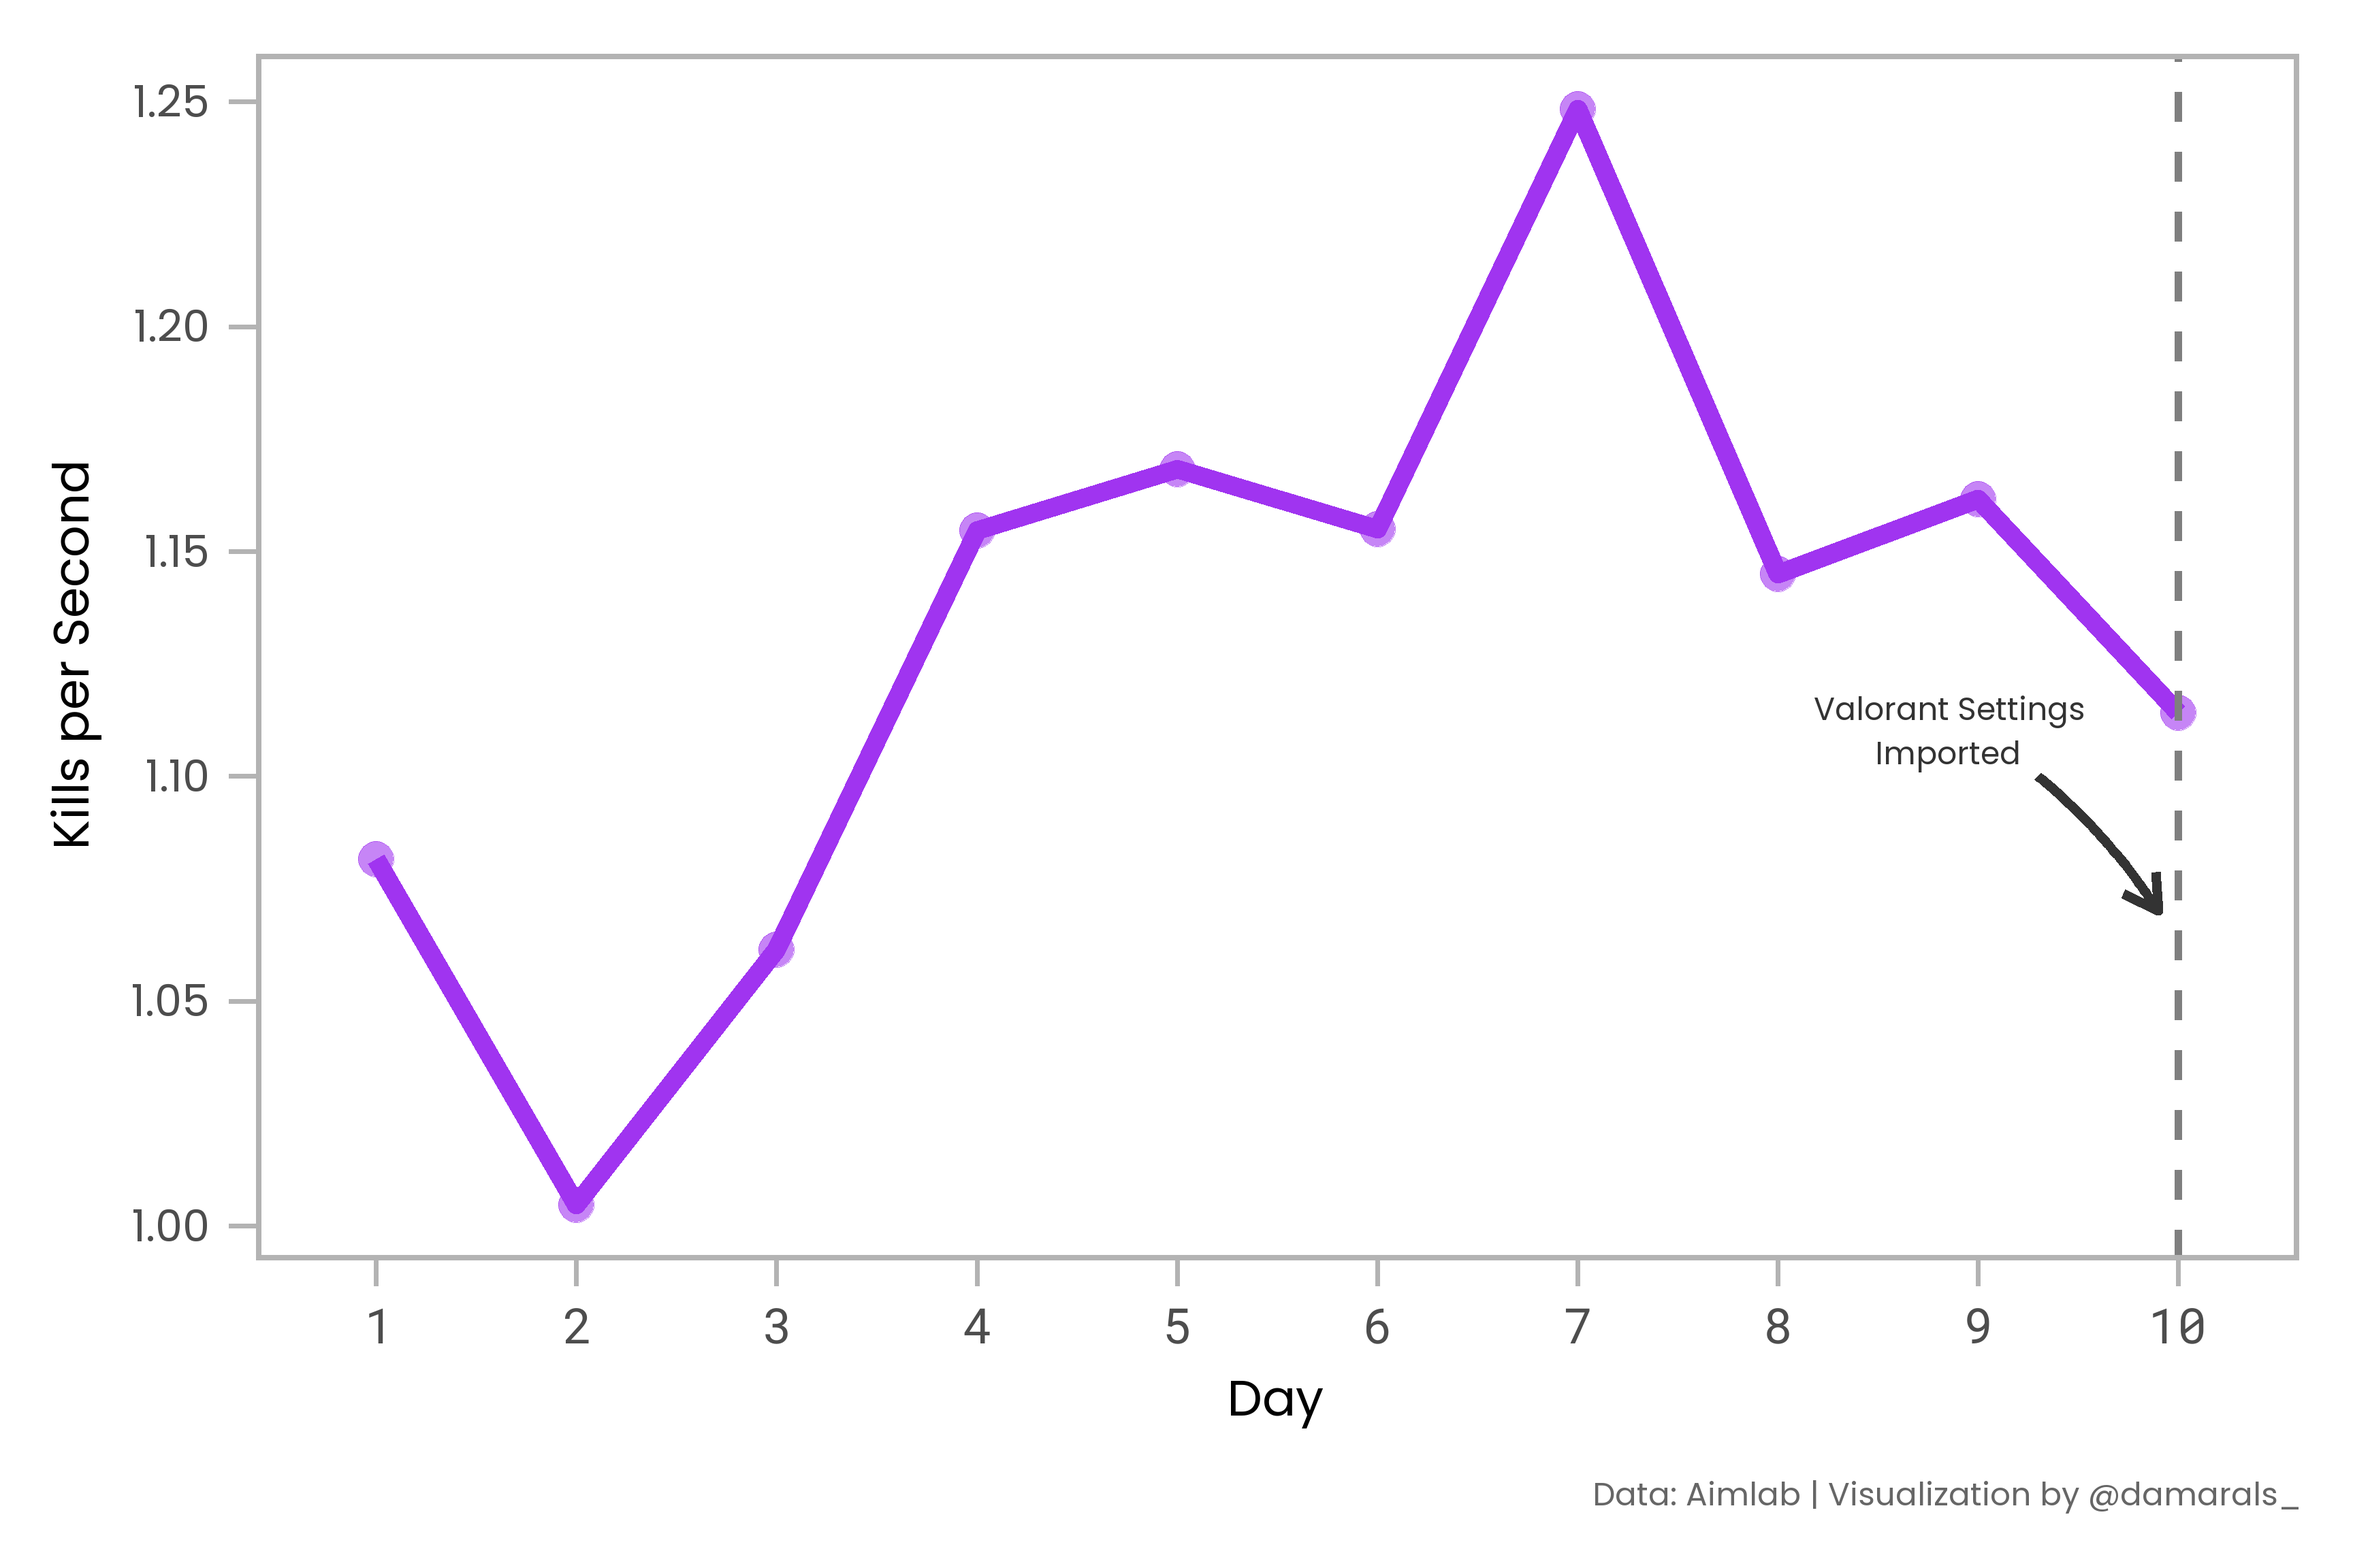
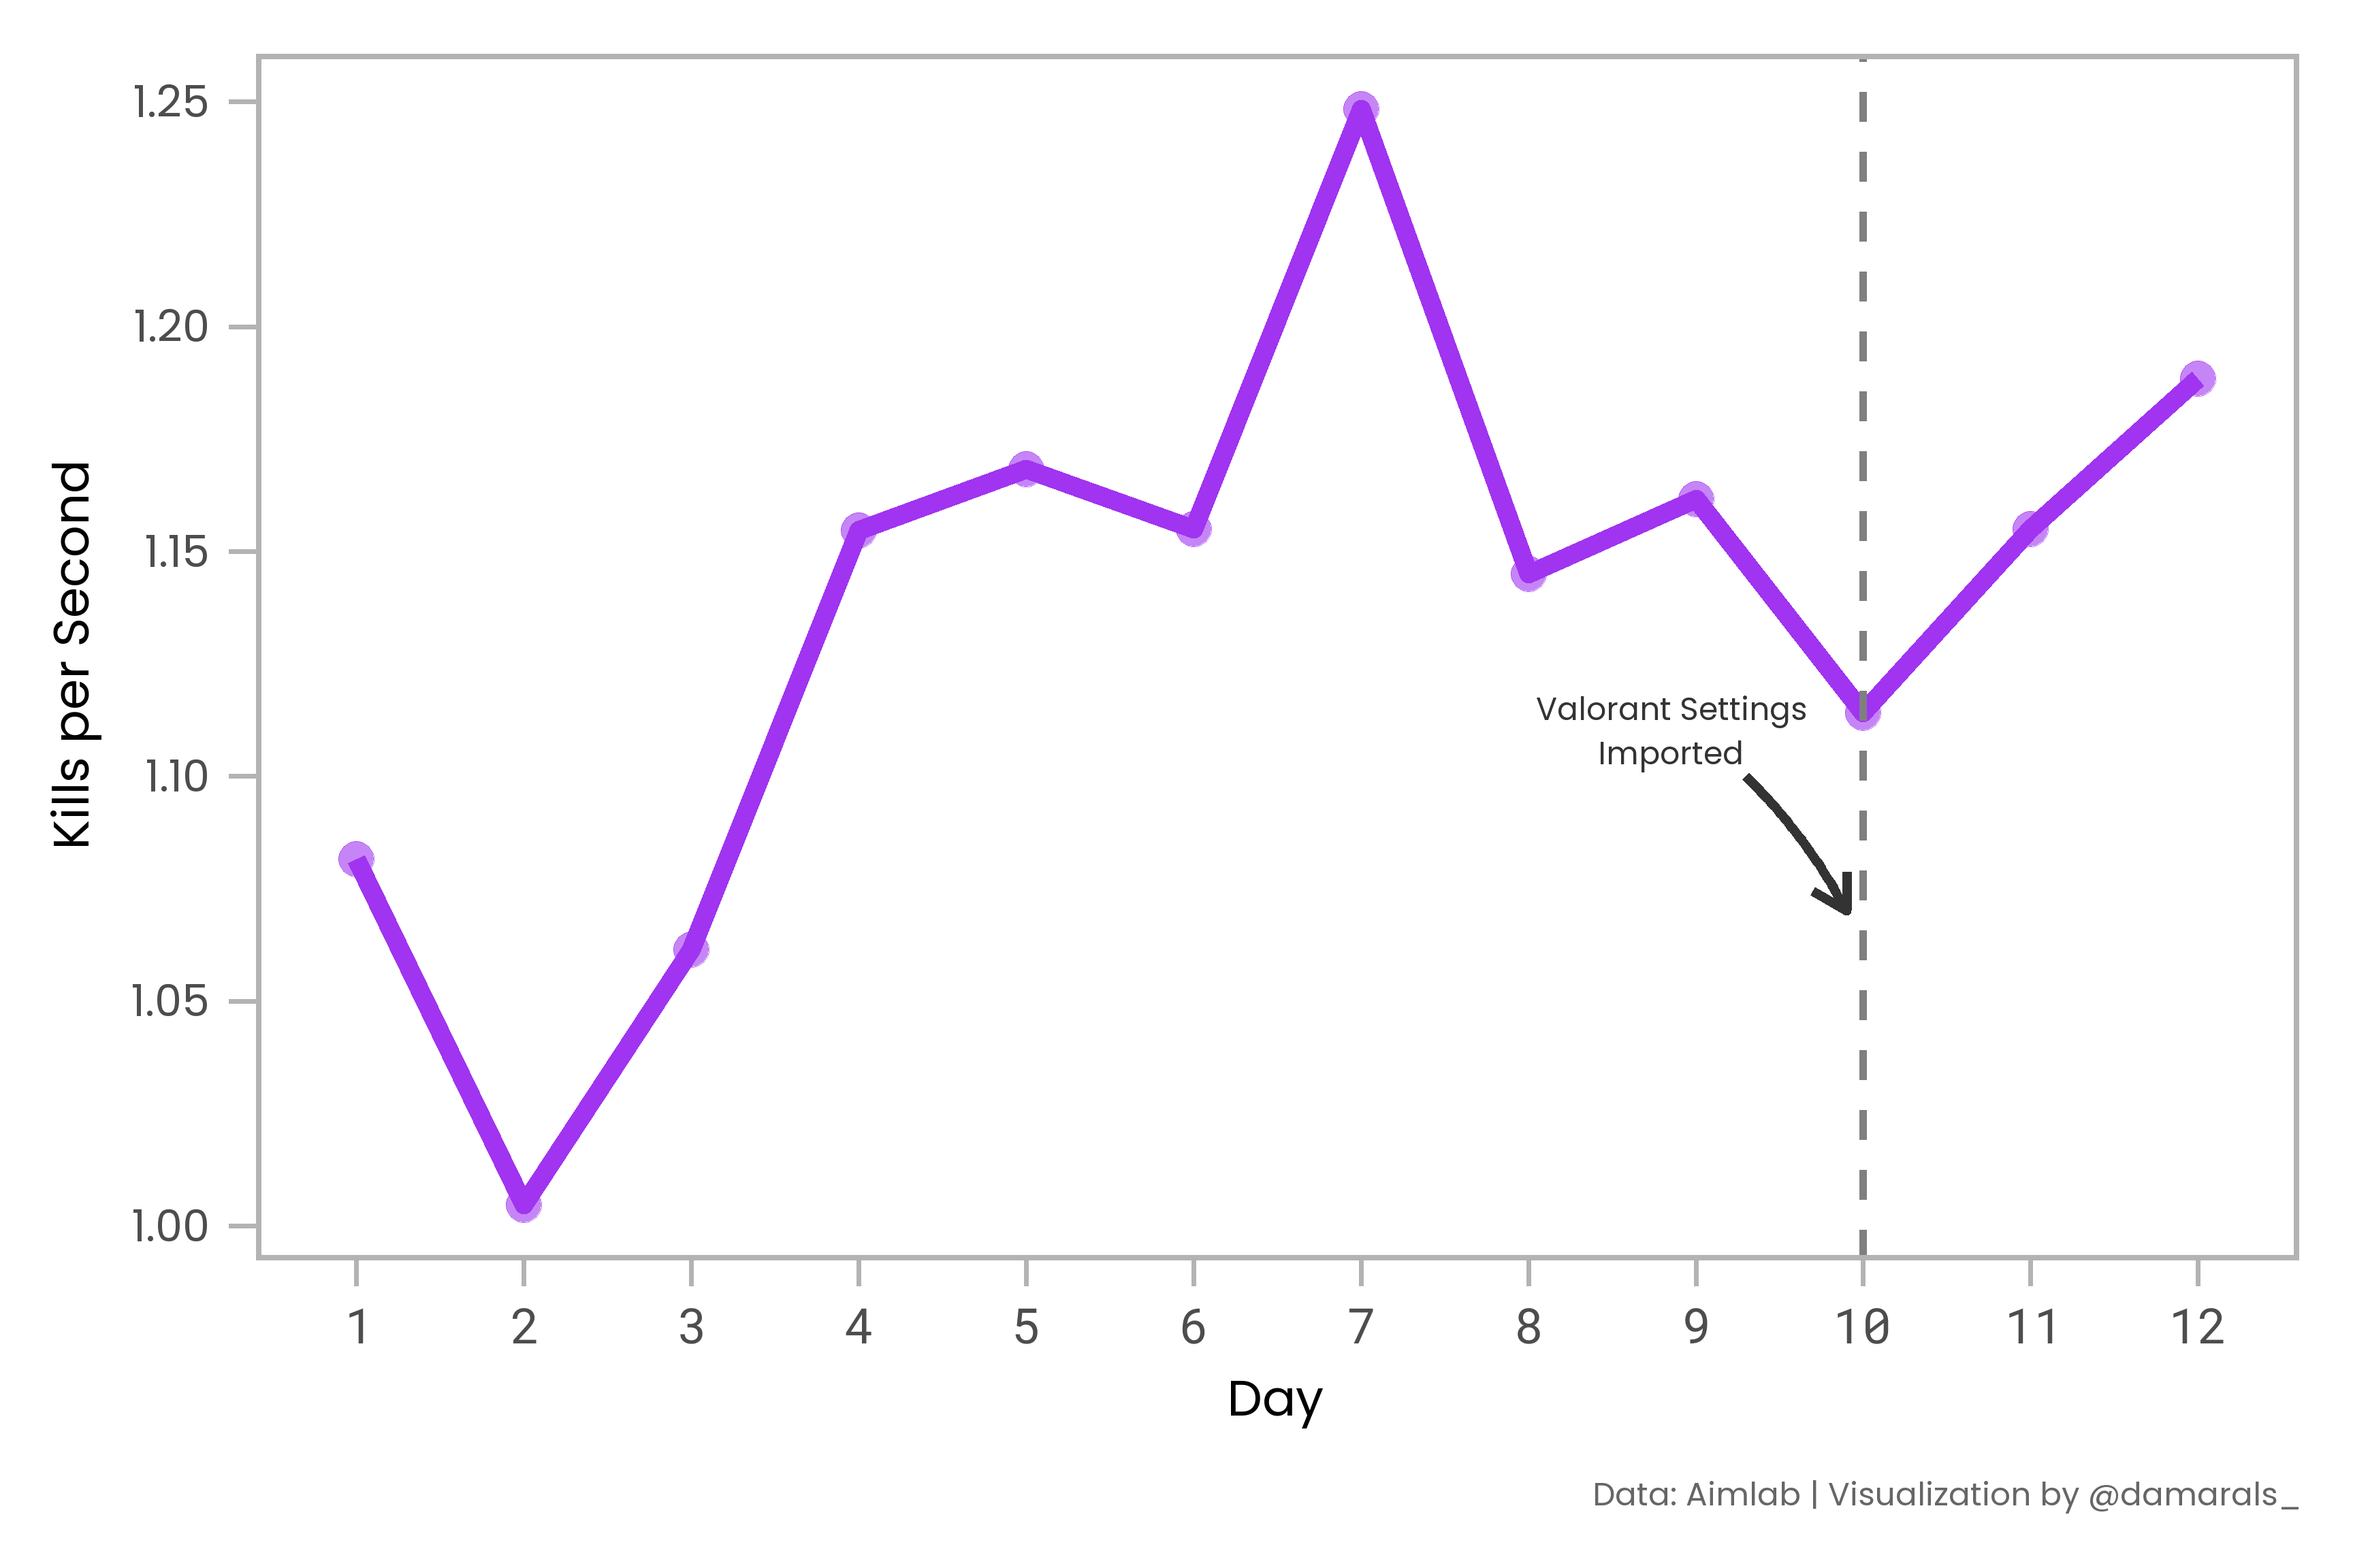
:sparkles: update data and remove valorant plots

diff --git a/docs/posts/2022-05-13_aimlab-is-worth/index.html b/docs/posts/2022-05-13_aimlab-is-worth/index.html
@@ -697,63 +697,6 @@ code span.wa { color: #60a0b0; font-weight: bold; font-style: italic; } /* Warni
 </div>
 </div>
 </div>
-</section>
-<section id="inside-the-valorant" class="level4">
-<h4 class="anchored" data-anchor-id="inside-the-valorant">Inside the Valorant</h4>
-<div class="cell" data-layout-align="center" data-fig.dpi="300">
-<details>
-<summary>Code</summary>
-<div class="sourceCode cell-code" id="cb13"><pre class="sourceCode r code-with-copy"><code class="sourceCode r"><span id="cb13-1"><a href="#cb13-1" aria-hidden="true" tabindex="-1"></a>val_task <span class="ot">&lt;-</span> readr<span class="sc">::</span><span class="fu">read_csv</span>(<span class="st">"data/val-task.csv"</span>, <span class="at">col_types =</span> <span class="st">"fdd"</span>) <span class="sc">%&gt;%</span></span>
-<span id="cb13-2"><a href="#cb13-2" aria-hidden="true" tabindex="-1"></a>  dplyr<span class="sc">::</span><span class="fu">filter</span>(</span>
-<span id="cb13-3"><a href="#cb13-3" aria-hidden="true" tabindex="-1"></a>    dplyr<span class="sc">::</span><span class="fu">between</span>(dplyr<span class="sc">::</span><span class="fu">row_number</span>(), <span class="dv">1</span>, </span>
-<span id="cb13-4"><a href="#cb13-4" aria-hidden="true" tabindex="-1"></a>                   <span class="fu">max</span>(<span class="fu">which</span>(<span class="sc">!</span><span class="fu">is.na</span>(time_to_complete)))))</span>
-<span id="cb13-5"><a href="#cb13-5" aria-hidden="true" tabindex="-1"></a></span>
-<span id="cb13-6"><a href="#cb13-6" aria-hidden="true" tabindex="-1"></a>val_task <span class="sc">%&gt;%</span></span>
-<span id="cb13-7"><a href="#cb13-7" aria-hidden="true" tabindex="-1"></a>  ggplot2<span class="sc">::</span><span class="fu">ggplot</span>() <span class="sc">+</span></span>
-<span id="cb13-8"><a href="#cb13-8" aria-hidden="true" tabindex="-1"></a>  ggplot2<span class="sc">::</span><span class="fu">aes</span>(<span class="at">x =</span> day, <span class="at">y =</span> time_to_complete, <span class="at">group =</span> <span class="dv">1</span>) <span class="sc">+</span></span>
-<span id="cb13-9"><a href="#cb13-9" aria-hidden="true" tabindex="-1"></a>  ggplot2<span class="sc">::</span><span class="fu">stat_summary</span>(<span class="at">fun =</span> mean, <span class="at">geom =</span> <span class="st">"point"</span>,</span>
-<span id="cb13-10"><a href="#cb13-10" aria-hidden="true" tabindex="-1"></a>                        <span class="at">color =</span> <span class="st">"#A034F0"</span>, <span class="at">size =</span> <span class="dv">9</span>, <span class="at">alpha =</span> <span class="fl">0.6</span>) <span class="sc">+</span></span>
-<span id="cb13-11"><a href="#cb13-11" aria-hidden="true" tabindex="-1"></a>  ggplot2<span class="sc">::</span><span class="fu">stat_summary</span>(<span class="at">fun =</span> mean, <span class="at">geom =</span> <span class="st">"line"</span>,</span>
-<span id="cb13-12"><a href="#cb13-12" aria-hidden="true" tabindex="-1"></a>                        <span class="at">color =</span> <span class="st">"#A034F0"</span>, <span class="at">size =</span> <span class="dv">5</span>) <span class="sc">+</span></span>
-<span id="cb13-13"><a href="#cb13-13" aria-hidden="true" tabindex="-1"></a>  ggplot2<span class="sc">::</span><span class="fu">scale_y_continuous</span>(<span class="at">breaks =</span> scales<span class="sc">::</span><span class="fu">pretty_breaks</span>(<span class="dv">8</span>)) <span class="sc">+</span></span>
-<span id="cb13-14"><a href="#cb13-14" aria-hidden="true" tabindex="-1"></a>  ggplot2<span class="sc">::</span><span class="fu">labs</span>(<span class="at">x =</span> <span class="st">"Day"</span>, <span class="at">y =</span> <span class="st">"Time to Complete (s)"</span>,</span>
-<span id="cb13-15"><a href="#cb13-15" aria-hidden="true" tabindex="-1"></a>                <span class="at">caption =</span> <span class="st">"Data: Aimlab | Visualization by @damarals_"</span>) <span class="sc">+</span></span>
-<span id="cb13-16"><a href="#cb13-16" aria-hidden="true" tabindex="-1"></a>  danlib<span class="sc">::</span><span class="fu">dan_theme</span>(<span class="at">base_size =</span> <span class="dv">60</span>, <span class="at">axis_title_size =</span> <span class="dv">55</span>,</span>
-<span id="cb13-17"><a href="#cb13-17" aria-hidden="true" tabindex="-1"></a>                    <span class="at">axis_text_x_size =</span> <span class="dv">54</span>, <span class="at">caption_plot_size =</span> <span class="dv">35</span>)</span></code><button title="Copy to Clipboard" class="code-copy-button"><i class="bi"></i></button></pre></div>
-</details>
-<div class="cell-output-display">
-<div class="quarto-figure quarto-figure-center">
-<figure class="figure">
-<p><img src="index_files/figure-html/unnamed-chunk-13-1.png" class="img-fluid figure-img" width="1728"></p>
-</figure>
-</div>
-</div>
-</div>
-<div class="cell" data-layout-align="center" data-fig.dpi="300">
-<details>
-<summary>Code</summary>
-<div class="sourceCode cell-code" id="cb14"><pre class="sourceCode r code-with-copy"><code class="sourceCode r"><span id="cb14-1"><a href="#cb14-1" aria-hidden="true" tabindex="-1"></a>val_task <span class="sc">%&gt;%</span></span>
-<span id="cb14-2"><a href="#cb14-2" aria-hidden="true" tabindex="-1"></a>  dplyr<span class="sc">::</span><span class="fu">mutate</span>(<span class="at">kills_per_sec =</span> <span class="dv">100</span><span class="sc">/</span>time_to_complete) <span class="sc">%&gt;%</span></span>
-<span id="cb14-3"><a href="#cb14-3" aria-hidden="true" tabindex="-1"></a>  ggplot2<span class="sc">::</span><span class="fu">ggplot</span>() <span class="sc">+</span></span>
-<span id="cb14-4"><a href="#cb14-4" aria-hidden="true" tabindex="-1"></a>  ggplot2<span class="sc">::</span><span class="fu">aes</span>(<span class="at">x =</span> day, <span class="at">y =</span> kills_per_sec, <span class="at">group =</span> <span class="dv">1</span>) <span class="sc">+</span></span>
-<span id="cb14-5"><a href="#cb14-5" aria-hidden="true" tabindex="-1"></a>  ggplot2<span class="sc">::</span><span class="fu">stat_summary</span>(<span class="at">fun =</span> mean, <span class="at">geom =</span> <span class="st">"point"</span>,</span>
-<span id="cb14-6"><a href="#cb14-6" aria-hidden="true" tabindex="-1"></a>                        <span class="at">color =</span> <span class="st">"#A034F0"</span>, <span class="at">size =</span> <span class="dv">9</span>, <span class="at">alpha =</span> <span class="fl">0.6</span>) <span class="sc">+</span></span>
-<span id="cb14-7"><a href="#cb14-7" aria-hidden="true" tabindex="-1"></a>  ggplot2<span class="sc">::</span><span class="fu">stat_summary</span>(<span class="at">fun =</span> mean, <span class="at">geom =</span> <span class="st">"line"</span>,</span>
-<span id="cb14-8"><a href="#cb14-8" aria-hidden="true" tabindex="-1"></a>                        <span class="at">color =</span> <span class="st">"#A034F0"</span>, <span class="at">size =</span> <span class="dv">5</span>) <span class="sc">+</span></span>
-<span id="cb14-9"><a href="#cb14-9" aria-hidden="true" tabindex="-1"></a>  ggplot2<span class="sc">::</span><span class="fu">scale_y_continuous</span>(<span class="at">breaks =</span> scales<span class="sc">::</span><span class="fu">pretty_breaks</span>(<span class="dv">8</span>)) <span class="sc">+</span></span>
-<span id="cb14-10"><a href="#cb14-10" aria-hidden="true" tabindex="-1"></a>  ggplot2<span class="sc">::</span><span class="fu">labs</span>(<span class="at">x =</span> <span class="st">"Day"</span>, <span class="at">y =</span> <span class="st">"Kills per Second"</span>,</span>
-<span id="cb14-11"><a href="#cb14-11" aria-hidden="true" tabindex="-1"></a>                <span class="at">caption =</span> <span class="st">"Data: Aimlab | Visualization by @damarals_"</span>) <span class="sc">+</span></span>
-<span id="cb14-12"><a href="#cb14-12" aria-hidden="true" tabindex="-1"></a>  danlib<span class="sc">::</span><span class="fu">dan_theme</span>(<span class="at">base_size =</span> <span class="dv">60</span>, <span class="at">axis_title_size =</span> <span class="dv">55</span>,</span>
-<span id="cb14-13"><a href="#cb14-13" aria-hidden="true" tabindex="-1"></a>                    <span class="at">axis_text_x_size =</span> <span class="dv">54</span>, <span class="at">caption_plot_size =</span> <span class="dv">35</span>)</span></code><button title="Copy to Clipboard" class="code-copy-button"><i class="bi"></i></button></pre></div>
-</details>
-<div class="cell-output-display">
-<div class="quarto-figure quarto-figure-center">
-<figure class="figure">
-<p><img src="index_files/figure-html/unnamed-chunk-14-1.png" class="img-fluid figure-img" width="1728"></p>
-</figure>
-</div>
-</div>
-</div>
 
 
 </section>

diff --git a/docs/index.html b/docs/index.html
@@ -178,7 +178,7 @@ ul.task-list{list-style: none;}
     </div>
 </div>
 <div class="list quarto-listing-default">
-<div class="quarto-post image-right" data-index="0" data-categories="Games,DataViz" data-listing-date-sort="1652324400000" data-listing-file-modified-sort="1652974067854" data-listing-reading-time-sort="25.435">
+<div class="quarto-post image-right" data-index="0" data-categories="Games,DataViz" data-listing-date-sort="1652324400000" data-listing-file-modified-sort="1653164116953" data-listing-reading-time-sort="23.505">
 <div class="thumbnail">
 <p><a href="./posts/2022-05-13_aimlab-is-worth/index.html"> <img src="./posts/2022-05-13_aimlab-is-worth/img/aimlab.jpg" class="thumnail-image"> </a></p>
 </div>
@@ -207,7 +207,7 @@ DataViz
 May 12, 2022
 </div>
 <div class="listing-reading-time">
-25 min
+23 min
 </div>
 </a>
 </div>
